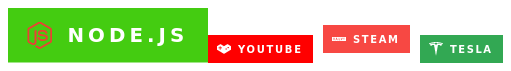
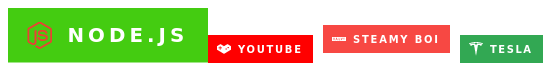
Updated Readme

Changed region(s): [[0.0294, 0.1127, 0.9687, 0.9014]]

diff --git a/README.md b/README.md
@@ -32,7 +32,7 @@ const App = () => {
     <>
       <Badge name="node.js" style={{width: 200}} logoColor="#eb4034" />
       <Badge name="YouTube Gaming" label="Youtube" />
-      <Badge name="Valve" label="Steam" style={{padding: 10}} />
+      <Badge name="Valve" label="Steamy Boi" style={{padding: 10}} />
       <Badge name="Tesla" backgroundColor="#32a853" />
     </>
   )
